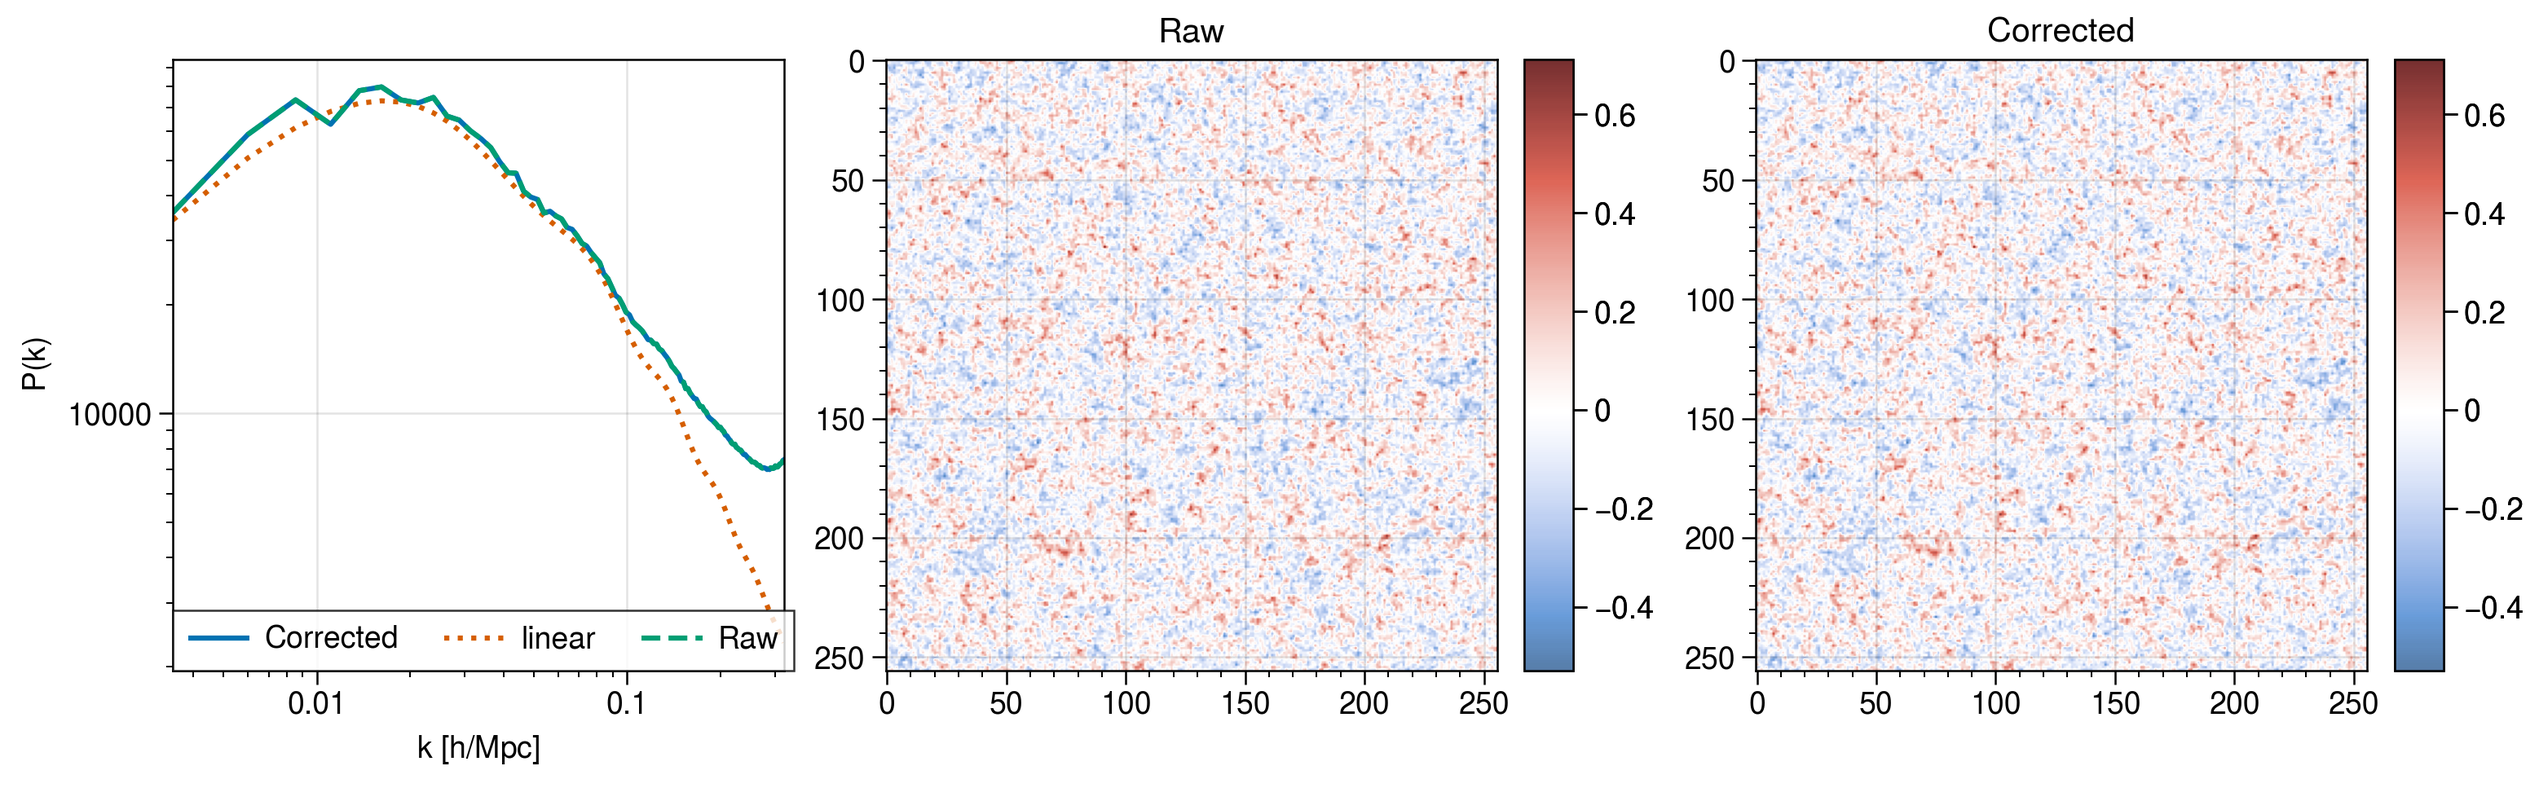
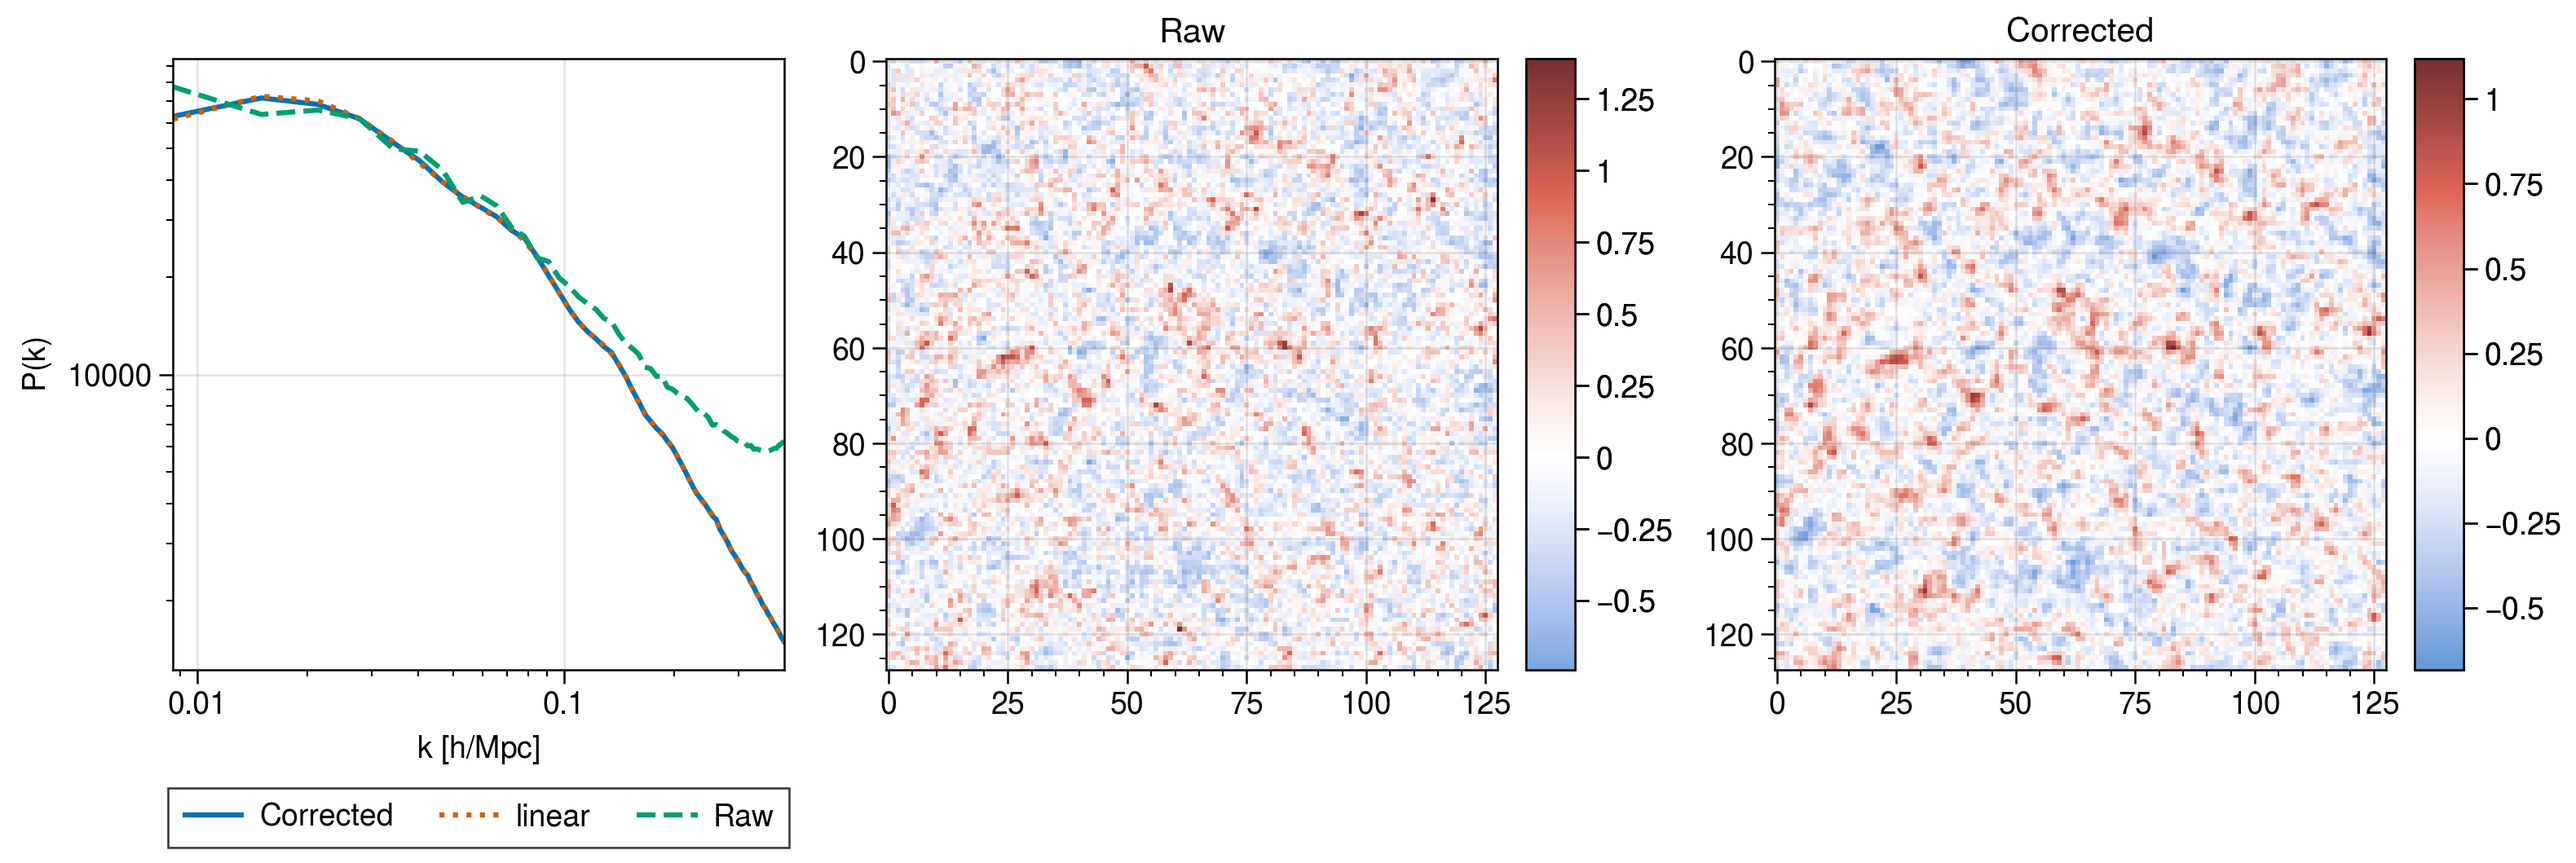
Actually the field can be derived wrt positions, there was just a but before. Corrected positions such that the Pk matches the linear Pk times bias**2

diff --git a/tests/positions.py b/tests/positions.py
@@ -18,7 +18,7 @@ import Pk_library as PKL
 
 
 n_bins = 64
-box_size = 2500.
+box_size = 1000.
 k_ny = jnp.pi * n_bins / box_size
 key = jax.random.PRNGKey(42)
 
@@ -35,12 +35,12 @@ z = 0.466
 
 @jax.jit
 def loss(positions):
-    xpos = particles[:,0]
-    ypos = particles[:,1]
-    zpos = particles[:,2]
-    bias = 1.#2.2
-    n_bins = 256
-    box_size = 2500.
+    xpos = positions[:,0]
+    ypos = positions[:,1]
+    zpos = positions[:,2]
+    bias = 2.2
+    n_bins = 128
+    
     k_ny = jnp.pi * n_bins / box_size
     k_edges = jnp.arange(0.003, k_ny, 0.0025)
     delta = jnp.zeros((n_bins, n_bins, n_bins))
@@ -71,19 +71,10 @@ def step(step, opt_state):
     value, grads = jax.value_and_grad(loss)(get_params(opt_state))
     opt_state = opt_update(step, grads, opt_state)
     return opt_state
-num_steps = 2000
+num_steps = 200
 s = time.time()
 print("Training...", flush=True)
-#opt_state = jax.lax.fori_loop(0, num_steps, step, opt_state)
-for i in range(num_steps):
-    
-    value, grads = jax.value_and_grad(loss)(get_params(opt_state))
-    print(value)
-    print(grads)
-    opt_state = opt_update(i, grads, opt_state)
-    
-    
-    
+opt_state = jax.lax.fori_loop(0, num_steps, step, opt_state)   
 print(f"Training took {time.time() - s} s", flush=True)
 new_pos = get_params(opt_state)
 #final_loss = loss(w).block_until_ready()
@@ -91,8 +82,7 @@ new_pos = get_params(opt_state)
 print(particles)
 print(new_pos)
 
-n_bins = 256
-box_size = 2500.
+n_bins = 128
 k_ny = jnp.pi * n_bins / box_size
 delta = jnp.zeros((n_bins, n_bins, n_bins))
 delta = cic_mas_vec(delta,
@@ -137,7 +127,7 @@ ax[0].plot(k, pk, label='Raw', ls='--')
 ax[0].format(xscale = 'log', yscale = 'log', xlabel='$k$ [$h$/Mpc]', ylabel='$P(k)$')
 ax[1].imshow(delta[:,:,:].mean(axis=2), colorbar='r')
 ax[1].format(title='Raw')
-ax[0].legend()
+ax[0].legend(loc='bottom')
 fig.savefig("plots/positions.png", dpi=300)
 
 
